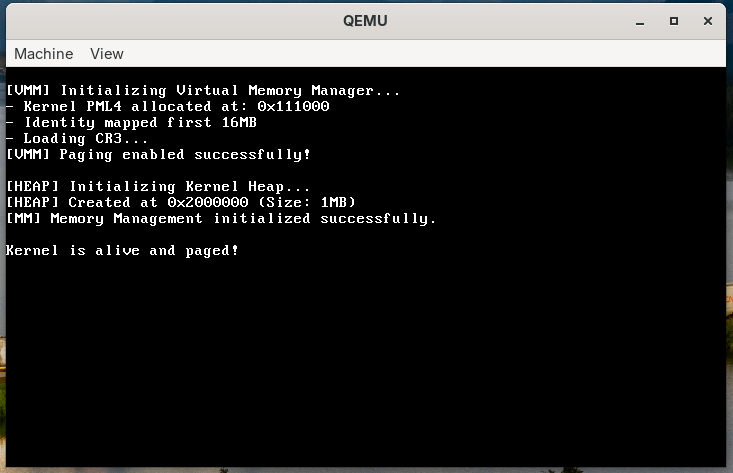
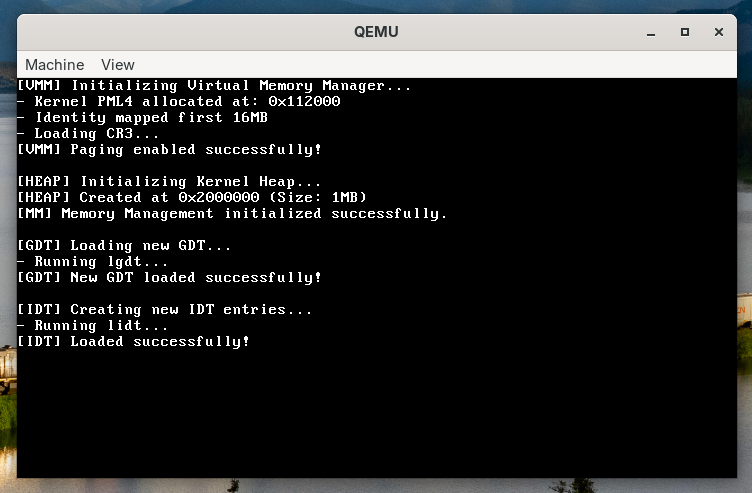
docs: update README.md and screenshot

Changed region(s): [[0.0, 0.0, 1.0, 1.0]]

diff --git a/README.md b/README.md
@@ -11,21 +11,20 @@ O objetivo é construir um pequeno sistema operacional x86_64 compatível com Mu
 
 ## 📸 Screenshots
 
-> *Estado atual do kernel rodando no QEMU, exibindo o mapa de memória e o PMM inicializado.*
+> *Estado atual do kernel executando no QEMU, exibindo a inicialização do Memory Management Subsystem.*
 
 ![Kernel Screenshot](./docs/print.png)
-
 
 ---
 
 ## 🚀 Status do Projeto
 
-O kernel está na fase de **Gerenciamento de Memória Física**. Estou terminando de migrar a base de código de C para Zig e estabelecer as fundações do sistema.
+O kernel está na fase de **Gerenciamento das Interrupções de Hardware**. A base de código já foi refatorada e escrita em Zig.
 
 ### ✅ Implementado
 - [x] **Bootloader:** Suporte a Multiboot (GRUB) via Assembly (`multiboot_header.asm`).
-- [x] **Kernel Entry:** Ponto de entrada migrado para Zig (`main.zig`).
-- [x] **Driver VGA:** Implementação completa em Zig com suporte a cores e strings (`vga.zig`).
+- [x] **Kernel Entry:** Ponto de entrada migrado para Zig (`kernel/main.zig`).
+- [x] **Driver VGA:** Implementação completa em Zig com suporte a cores e strings (`kernel/vga.zig`).
 - [x] **IDT (Interrupt Descriptor Table):** Tratamento básico de interrupções e exceções implementado em Zig.
 - [x] **Multiboot Parsing:** Leitura do mapa de memória fornecido pelo BIOS/GRUB.
 - [x] **PMM (Physical Memory Manager):**
@@ -34,9 +33,10 @@ O kernel está na fase de **Gerenciamento de Memória Física**. Estou terminand
   - Proteção de memória do Kernel e do próprio Bitmap.
 - [x] **VMM (Virtual Memory Manager):** Paginação e mapeamento de memória virtual.
 - [x] **Heap Allocator:** Implementação de `kmalloc` e `kfree`.
+- [x] **GDT (Global Descriptor Table):** Refinamento da GDT em Zig.
 
 ### 🚧 Em Progresso / Próximos Passos
-- [ ] **GDT (Global Descriptor Table):** Refinamento da GDT em Zig.
+
 - [ ] **Keyboard Driver:** Driver PS/2 básico para entrada de dados.
 
 ---
@@ -54,19 +54,19 @@ Para compilar este projeto, você precisará das seguintes ferramentas instalada
 
 ### Comandos (Makefile)
 
-O projeto utiliza um `Makefile` automatizado para facilitar o fluxo de desenvolvimento:
+O projeto utiliza um `Makefile` para facilitar o fluxo de desenvolvimento:
 
 ```bash
 # Compilar todo o kernel e gerar a ISO
 make all
 
-# Compilar e rodar imediatamente no QEMU
+# Compilar e executar imediatamente no QEMU
 make run
 
 # Limpar arquivos de build (.o, .elf, .iso)
 make clean
 
-# Rodar em modo Debug (aguarda conexão do GDB)
+# Executar em modo Debug (aguarda conexão do GDB)
 make debug
 
 ```
@@ -78,10 +78,11 @@ make debug
 ```text
 /
 ├── kernel/
-│   ├── arch/x86/        # Código específico de arquitetura (Assembly/Boot)
+│   ├── arch/x86/        # Código específico de arquitetura (Assembly/Boot/x86)
 │   ├── mm/              # Gerenciamento de Memória (Heap, VMM, PMM, Bitmap)
-│   ├── cpu.zig          # Tabela de Interrupções
+│   ├── cpu.zig          # Utilitários do processador
 │   ├── idt.zig          # Tabela de Interrupções
+│   ├── gdt.zig          # Tabela de Descrição Global
 │   ├── main.zig         # Ponto de entrada do Kernel
 │   ├── vga.zig          # Driver de Vídeo (Texto)
 │   └── multiboot.zig    # Parsing do cabeçalho Multiboot
